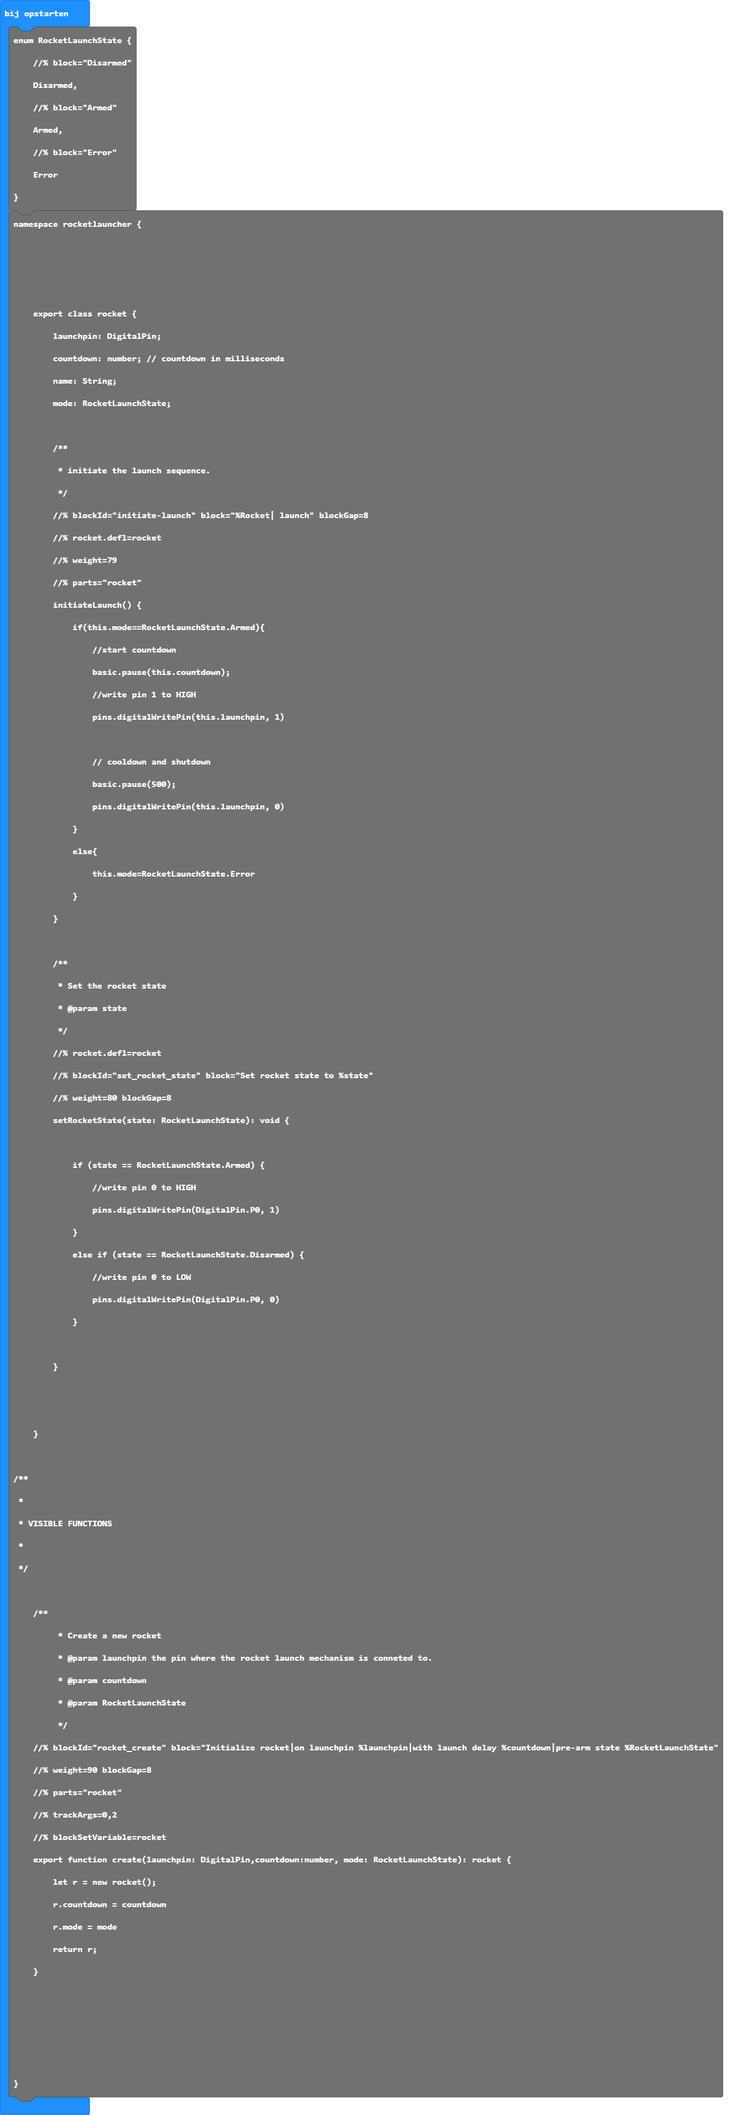
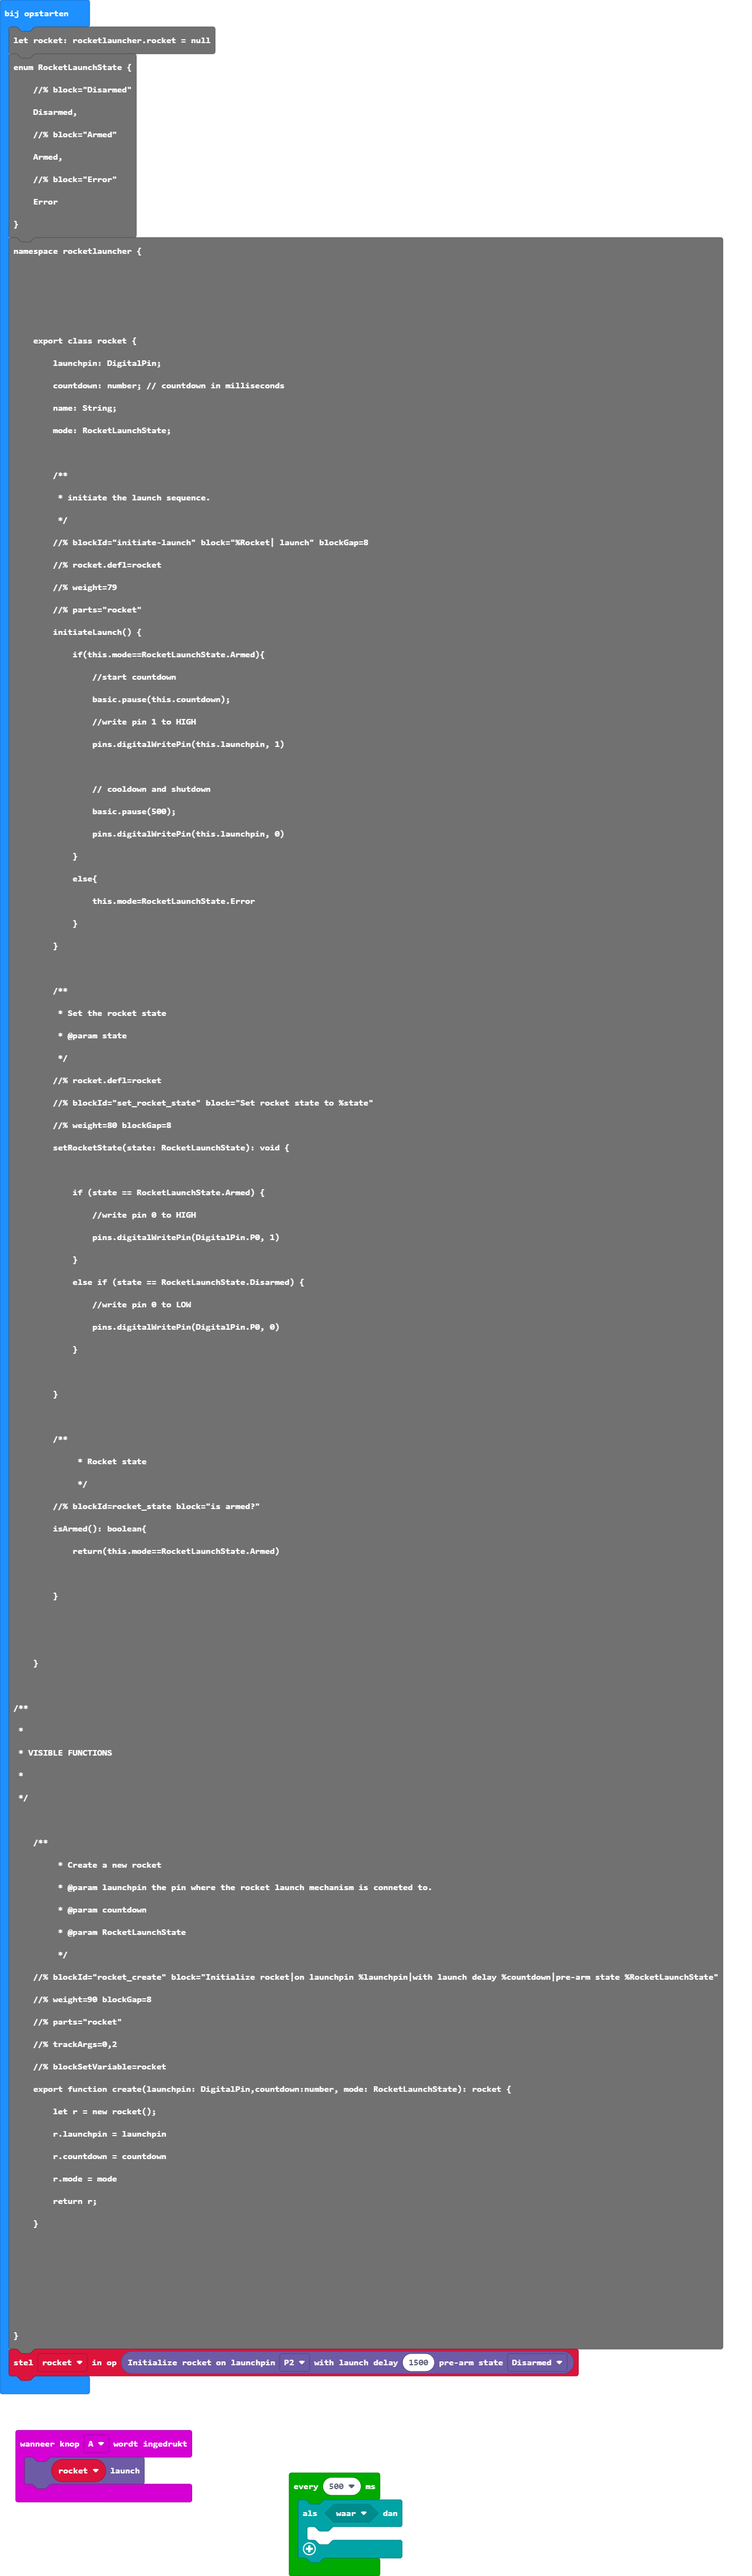
main.blocks, main.ts bijwerken

diff --git a/main.ts b/main.ts
@@ -1,3 +1,7 @@
+input.onButtonPressed(Button.A, function () {
+    rocket.initiateLaunch()
+})
+let rocket: rocketlauncher.rocket = null
 enum RocketLaunchState {
     //% block="Disarmed"
     Disarmed,
@@ -59,6 +63,15 @@ namespace rocketlauncher {
 
         }
 
+        /**
+             * Rocket state
+             */
+        //% blockId=rocket_state block="is armed?"
+        isArmed(): boolean{
+            return(this.mode==RocketLaunchState.Armed)
+
+        }
+
 
     }
 
@@ -81,6 +94,7 @@ namespace rocketlauncher {
     //% blockSetVariable=rocket
     export function create(launchpin: DigitalPin,countdown:number, mode: RocketLaunchState): rocket {
         let r = new rocket();
+        r.launchpin = launchpin
         r.countdown = countdown
         r.mode = mode
         return r;
@@ -90,3 +104,9 @@ namespace rocketlauncher {
 
     
 }
+rocket = rocketlauncher.create(DigitalPin.P2, 1500, RocketLaunchState.Disarmed)
+loops.everyInterval(500, function () {
+    if (true) {
+    	
+    }
+})
